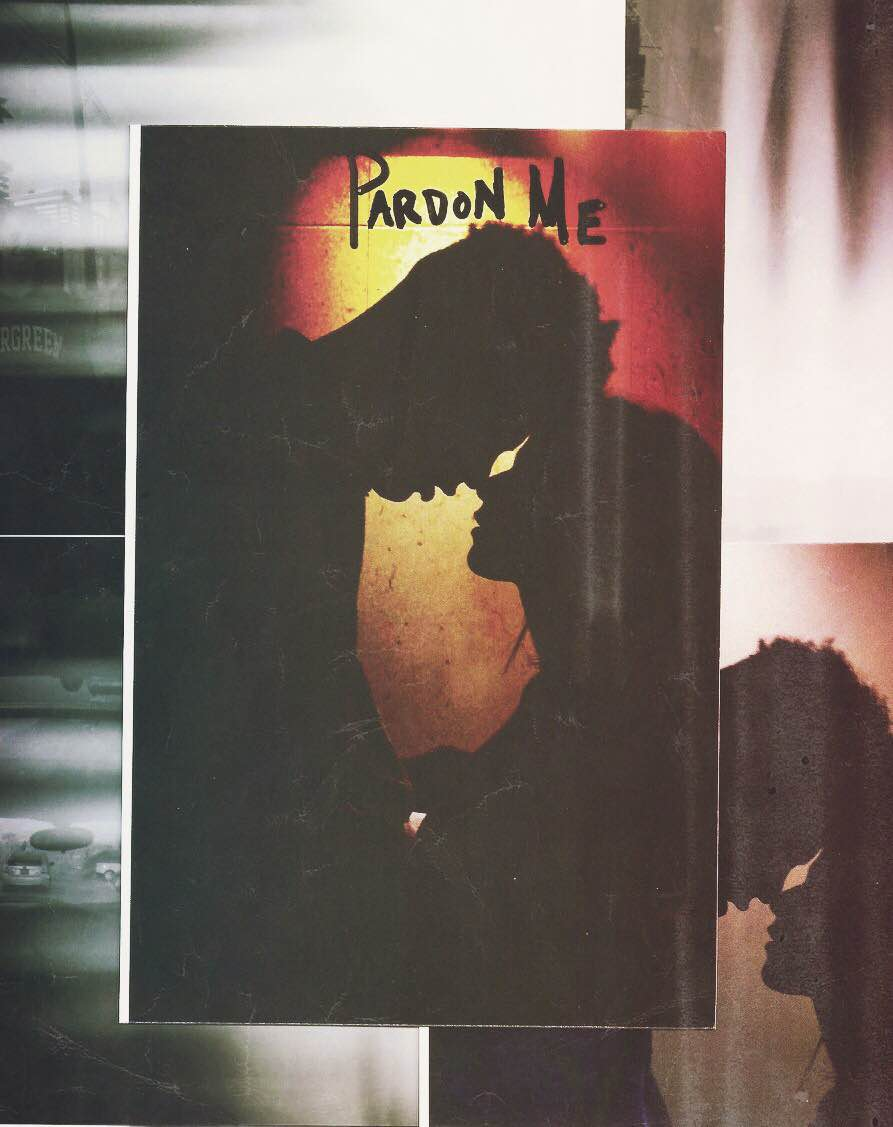
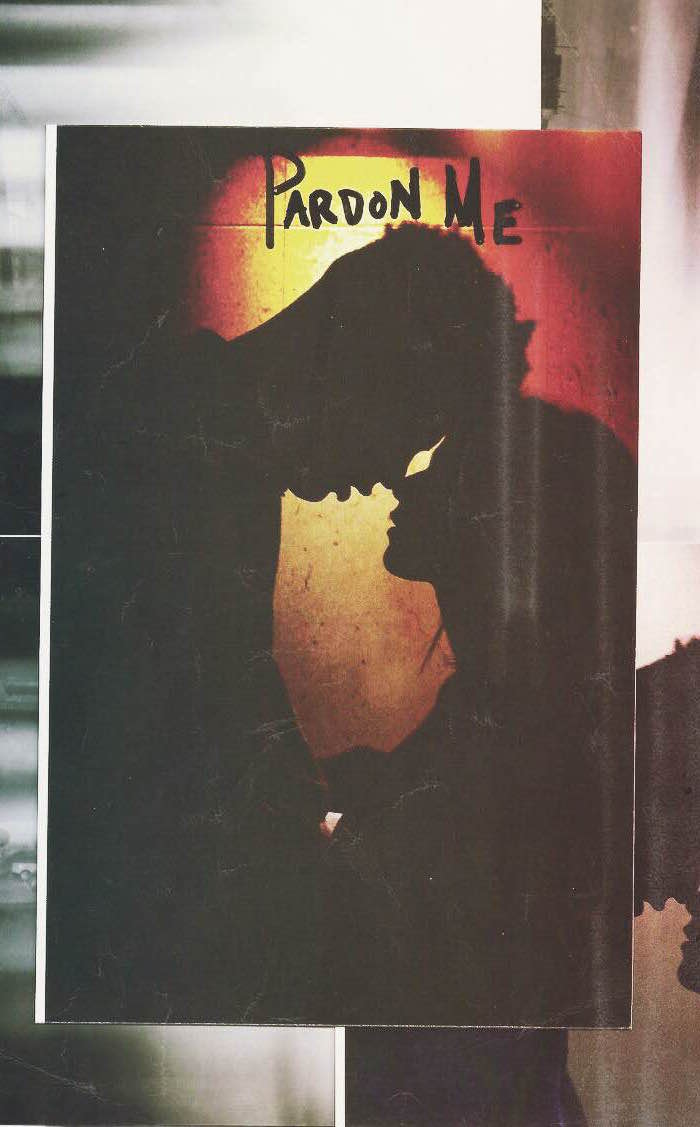
Added in a link to pardonme.html

diff --git a/index.html b/index.html
@@ -97,23 +97,23 @@
   <!-- END WHATS WRONG BLOCK -->
 
   <!-- PARDON ME BLOCK -->
-  <div class="col-md-4 portfolio-item cineTwo" style="display:none;"> 
+  <div class="col-md-4 portfolio-item cineTwo" style="top:-3px; padding:0; display:none;"> 
   <!-- PARDON ME SVG HOLMES --> 
-    <h2>II</h2>
+    <h2 style="font-family: 'Source Code Pro'; font-weight: 400; text-transform: uppercase; font-style: italic;">Pardon Me</h2>
 
   <br>  <!-- Text hover overlay -->
     <div class="video-thumbnail">
   <!-- LINK TO SONG PAGE -->
-  
+   <img class="img-responsive tate2" src="assets/pardon_me_hero.jpg" style="margin:auto;padding:auto;" alt=""/>
  <!-- <h3 style="padding-top:20%;font-size:10em;"> ? </h3> -->
   <!-- Text hover overlay content -->
  
 
-    <div class="video-overlay-dark">
-
-     <img class="img-responsive tate1" src="x.GIF" style="margin:auto;padding:auto;height:550px;" alt=""></img>
-
-      <p class="heroText" style="margin-top:25%;">
+    <div class="video-overlay"><p class="heroText" style=""><a href="pardonme.html" class="linkText">
+       &nbsp;&nbsp;&nbsp;&nbsp;<span style="font-size:2em;">T</span>unnel vision. The summer is always clear in hindsight, and only one image remains. <i>Pardon Me</i> for taking so long to notice.” <hr> <span style="font-size:.7em;font-align:center;color:#363636;">Listen to the music <br> see the lookbook <br> read the lyrics</span></a></p></div>
+      </div>
+  <button class="mobileButton"><a href="pardonme.html" style="color:white;">Enter Part 2</a></button>
+ </div>
 <!--
        <span style="font-size:1em;"><a href="perdoname.html">Part II:</span>
         <br /><br /> 
@@ -123,11 +123,7 @@
 
         <br />&nbsp;&nbsp;&nbsp;&nbsp;I got some exclusive bangers comin' your way. In the meantime, why not pop by my soundcloud? 
       </p> <a href="perdoname.html">Link To Content</a>-->
-    </div>
 
-
-  </div>
-</div>
 
   <!-- ROLL WITH HER BLOCK -->
    <div class="col-md-4 portfolio-item cineThree" style="display:none;">

diff --git a/css/style.css b/css/style.css
@@ -37,11 +37,12 @@ ul {
 .portfolio-item {
    
 }
-    .mobileButton {
+
+.mobileButton {
       height: 2em;
       background-color: pink;
       visibility: hidden;
-    }
+}
 
 /******** Song pages **********/
 
